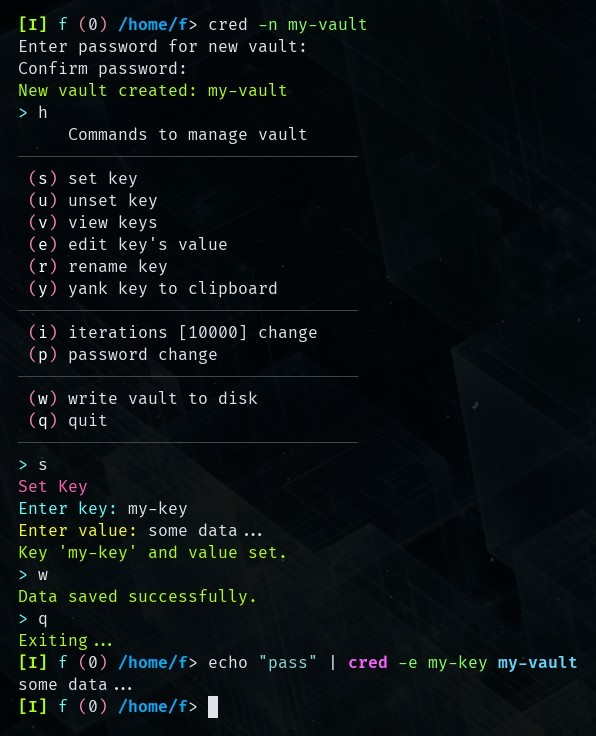
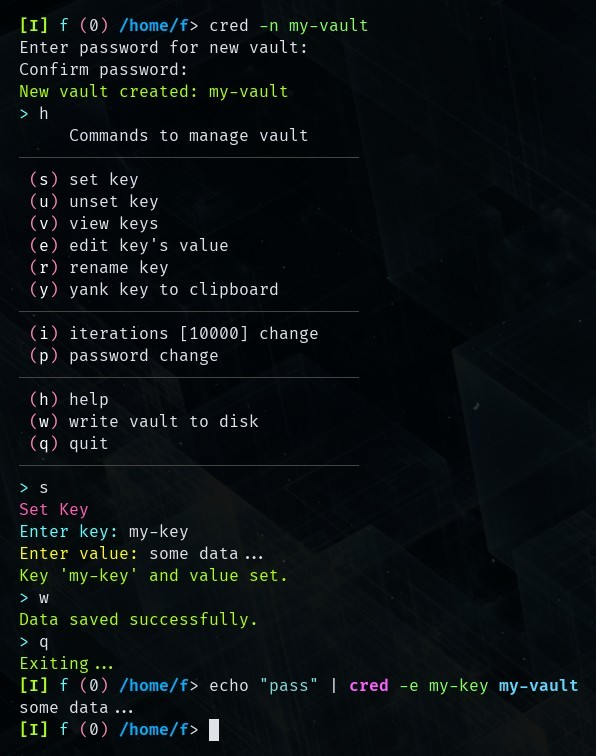
print help cmd

Changed region(s): [[0.0302, 0.0, 0.604, 1.0], [0.5738, 0.875, 0.9664, 0.9375]]

diff --git a/README.md b/README.md
@@ -47,6 +47,7 @@ Interactive terminal CRUD interface to alter key-value pairs and meta-data of va
  (i) iterations [10000] change
  (p) password change
 ──────────────────────────────────
+ (h) help
  (w) write vault to disk
  (q) quit
 ──────────────────────────────────
